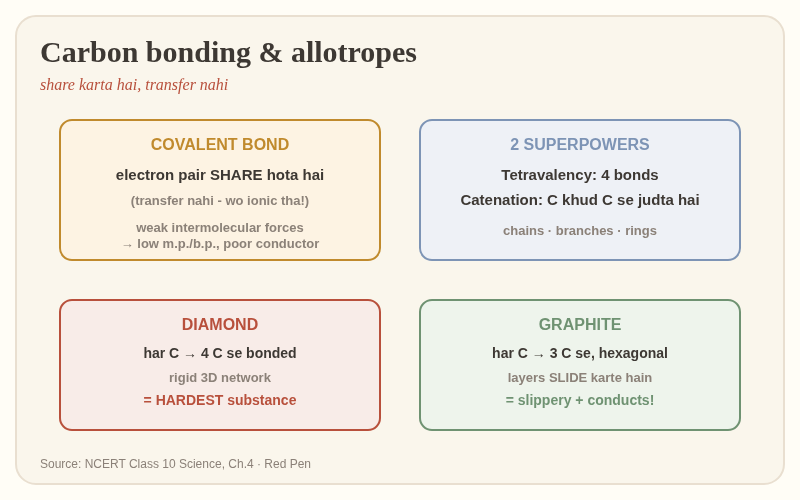
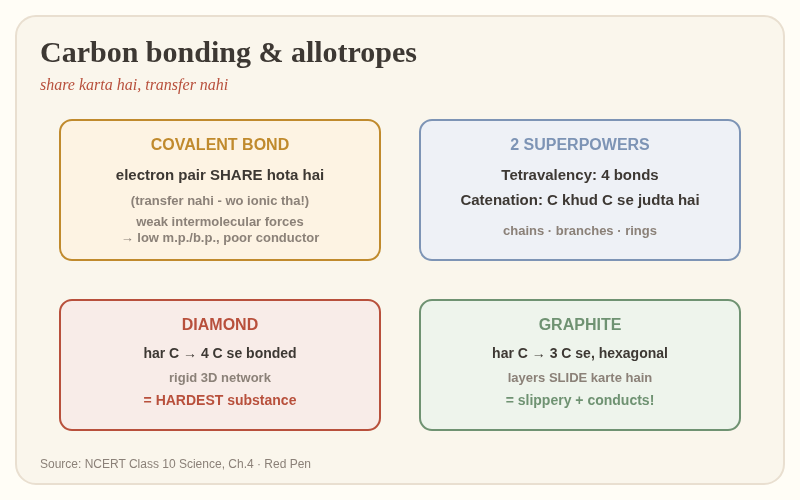
Fix homologous-ladder +CH2 label clipping and carbon-bonding text-border grazing

Changed region(s): [[0.1562, 0.42, 0.4062, 0.51]]

diff --git a/cards/gen_cards.js b/cards/gen_cards.js
@@ -332,8 +332,8 @@ cards['carbon-bonding'] = frame('Carbon bonding &amp; allotropes', 'share karta 
   txt(220, 150, 'COVALENT BOND', 16, C.amber, 'middle', 700),
   txt(220, 180, 'electron pair SHARE hota hai', 15, C.ink, 'middle'),
   txt(220, 205, '(transfer nahi - wo ionic tha!)', 13, C.soft, 'middle'),
-  txt(220, 232, 'weak intermolecular forces', 13, C.soft, 'middle'),
-  txt(220, 248, '→ low m.p./b.p., poor conductor', 13, C.soft, 'middle'),
+  txt(220, 226, 'weak intermolecular forces', 13, C.soft, 'middle'),
+  txt(220, 242, '→ low m.p./b.p., poor conductor', 13, C.soft, 'middle'),
   box(420, 120, 320, 140, '#eef1f6', C.sky),
   txt(580, 150, '2 SUPERPOWERS', 16, C.sky, 'middle', 700),
   txt(580, 180, 'Tetravalency: 4 bonds', 15, C.ink, 'middle'),
@@ -355,17 +355,19 @@ cards['carbon-bonding'] = frame('Carbon bonding &amp; allotropes', 'share karta 
 {
   const seg = [];
   const members = [['CH4', 'methane'], ['C2H6', 'ethane'], ['C3H8', 'propane'], ['C4H10', 'butane'], ['C5H12', 'pentane']];
+  const W = 110, H = 56, X0 = 42, Y0 = 322, HS = 150, VS = 48;
   for (let i = 0; i < members.length; i++) {
-    const x = 90 + i * 130, y = 300 - i * 45;
-    seg.push(box(x, y, 150, 60, '#eef4ec', C.sage));
-    seg.push(txt(x + 75, y + 28, members[i][0], 18, C.ink, 'middle', 700));
-    seg.push(txt(x + 75, y + 48, members[i][1], 13, C.soft, 'middle'));
+    const x = X0 + i * HS, y = Y0 - i * VS;
+    seg.push(box(x, y, W, H, '#eef4ec', C.sage));
+    seg.push(txt(x + W / 2, y + 26, members[i][0], 17, C.ink, 'middle', 700));
+    seg.push(txt(x + W / 2, y + 44, members[i][1], 12, C.soft, 'middle'));
     if (i < 4) {
-      seg.push(arrow(x + 150, y - 2, x + 130 + 20, y - 45 + 58, C.pen));
-      seg.push(txt(x + 116, y - 26, '+CH2', 13, C.pen, 'middle', 700));
+      // rising diagonal arrow through the 40px stair corridor; label floats clear above it
+      seg.push(arrow(x + W + 2, y + H - 6, x + HS - 2, y - VS + 6, C.pen));
+      seg.push(txt(x + 130, y - 14, '+CH2', 12, C.pen, 'middle', 700));
     }
   }
-  seg.push(txt(400, 110, 'har step = +1 carbon, +2 hydrogen = +14 u', 16, C.ink, 'middle', 700));
+  seg.push(txt(400, 104, 'har step = +1 carbon, +2 hydrogen = +14 u', 16, C.ink, 'middle', 700));
   seg.push(txt(400, 445, 'Same general formula · similar chemical properties · gradual physical change', 14, C.soft, 'middle'));
   cards['homologous-ladder'] = frame('Homologous series ladder', 'alkanes: ek family, har member ek CH2 bada', seg.join(''), SRC4);
 }
